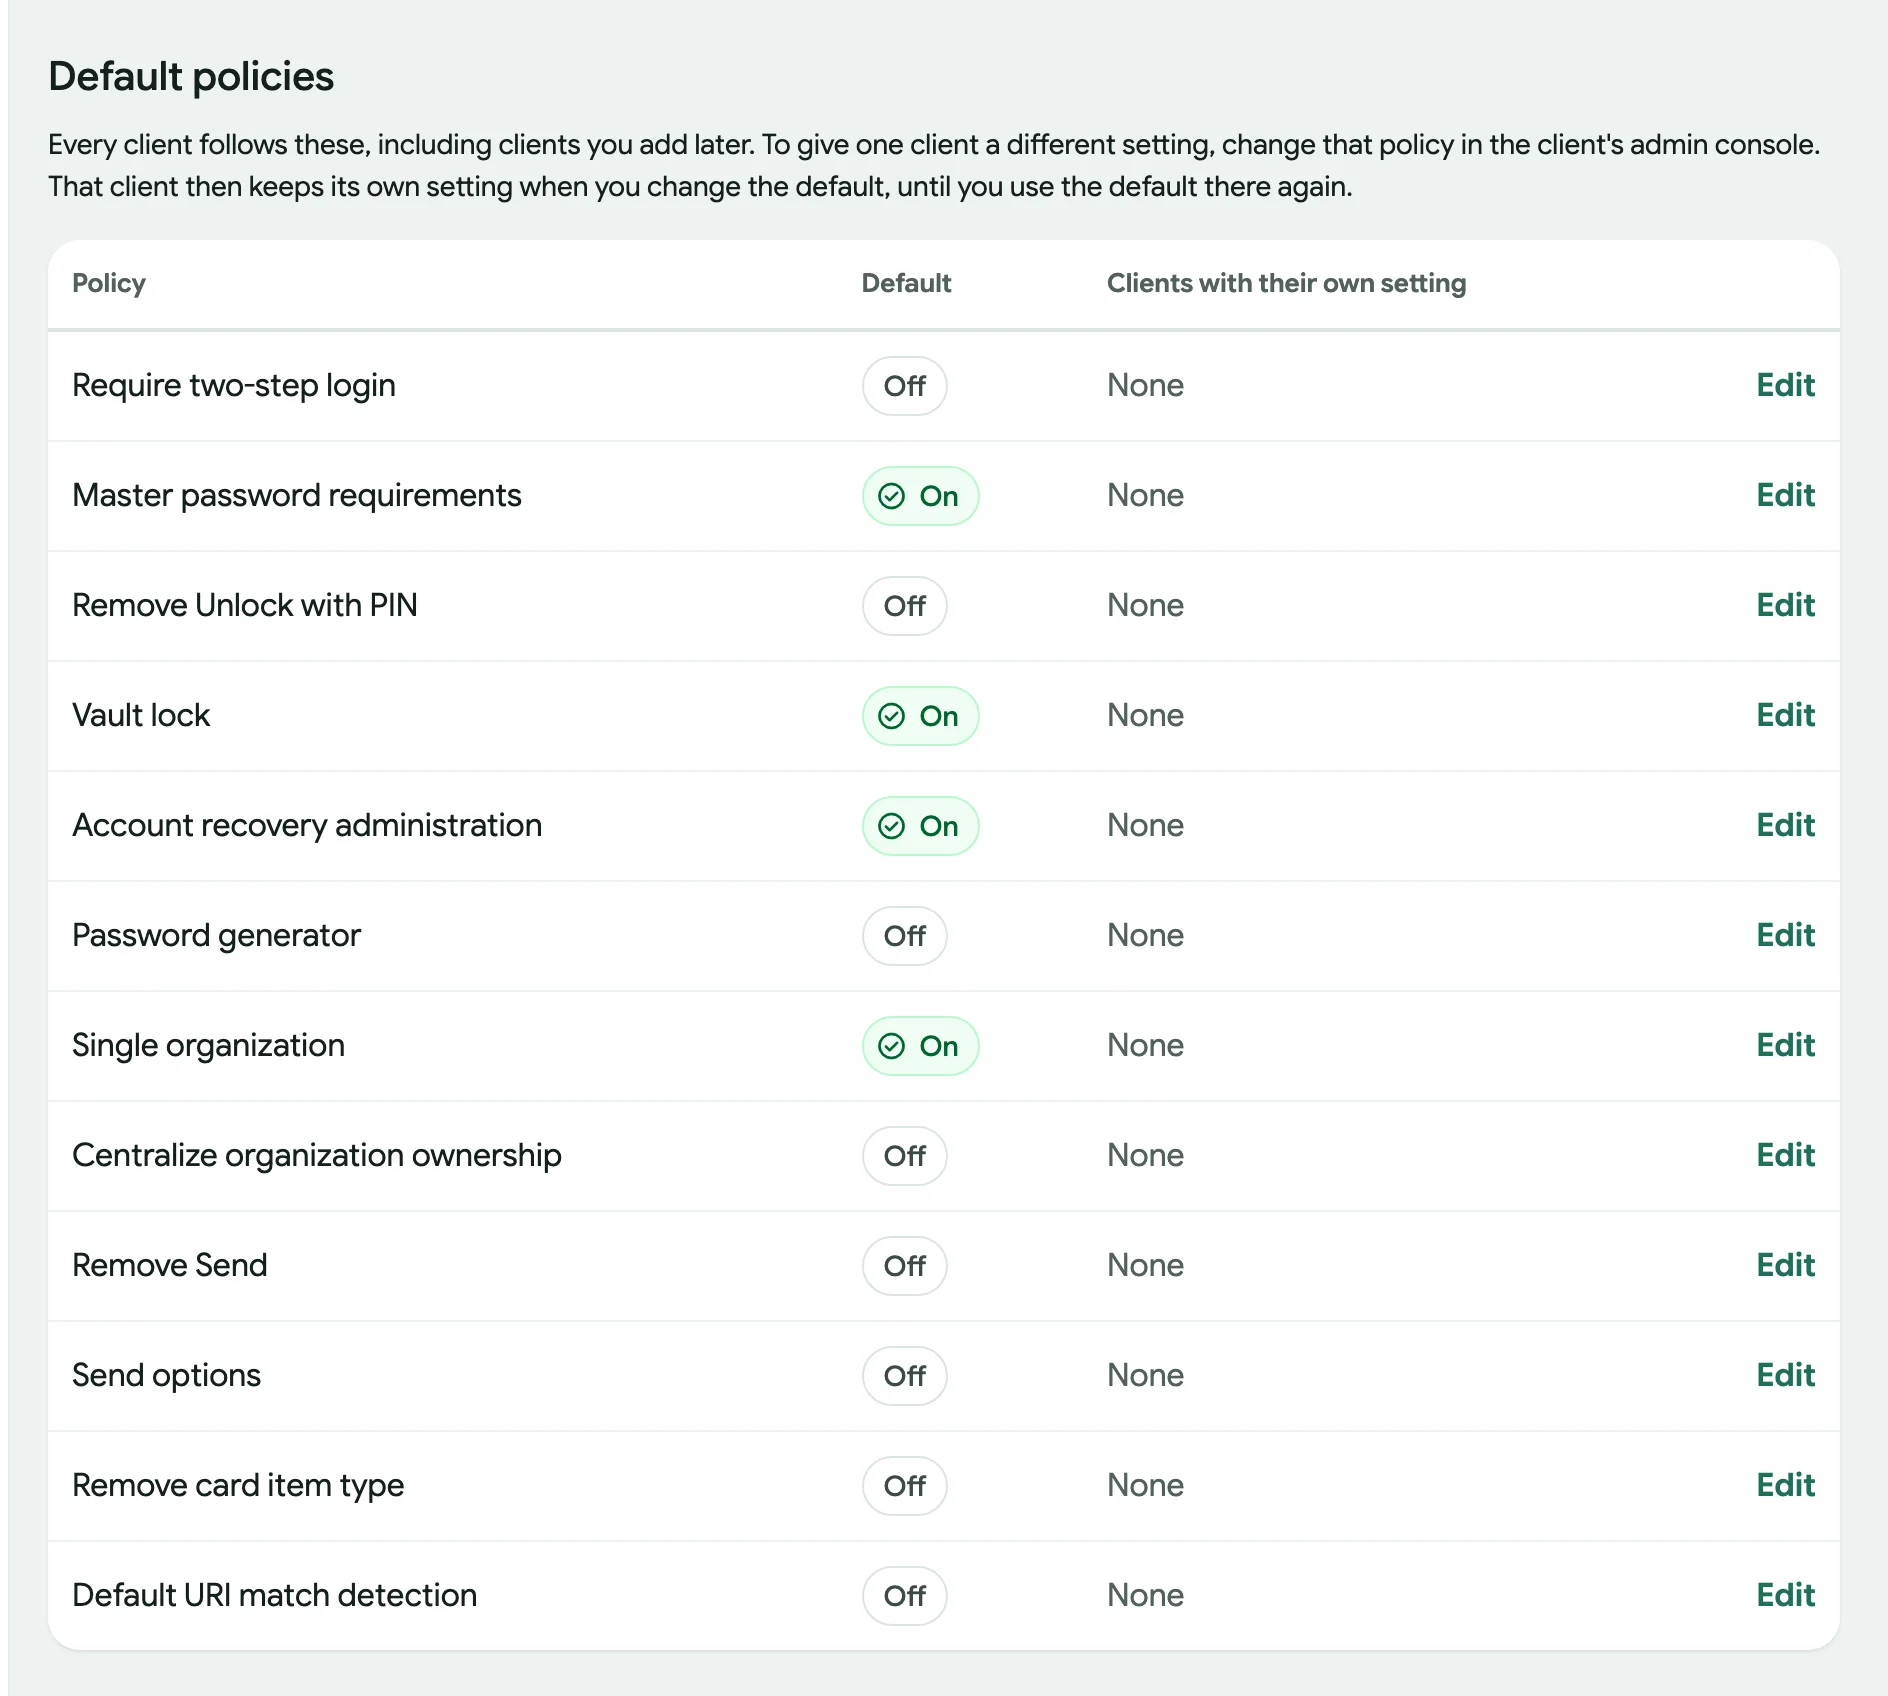
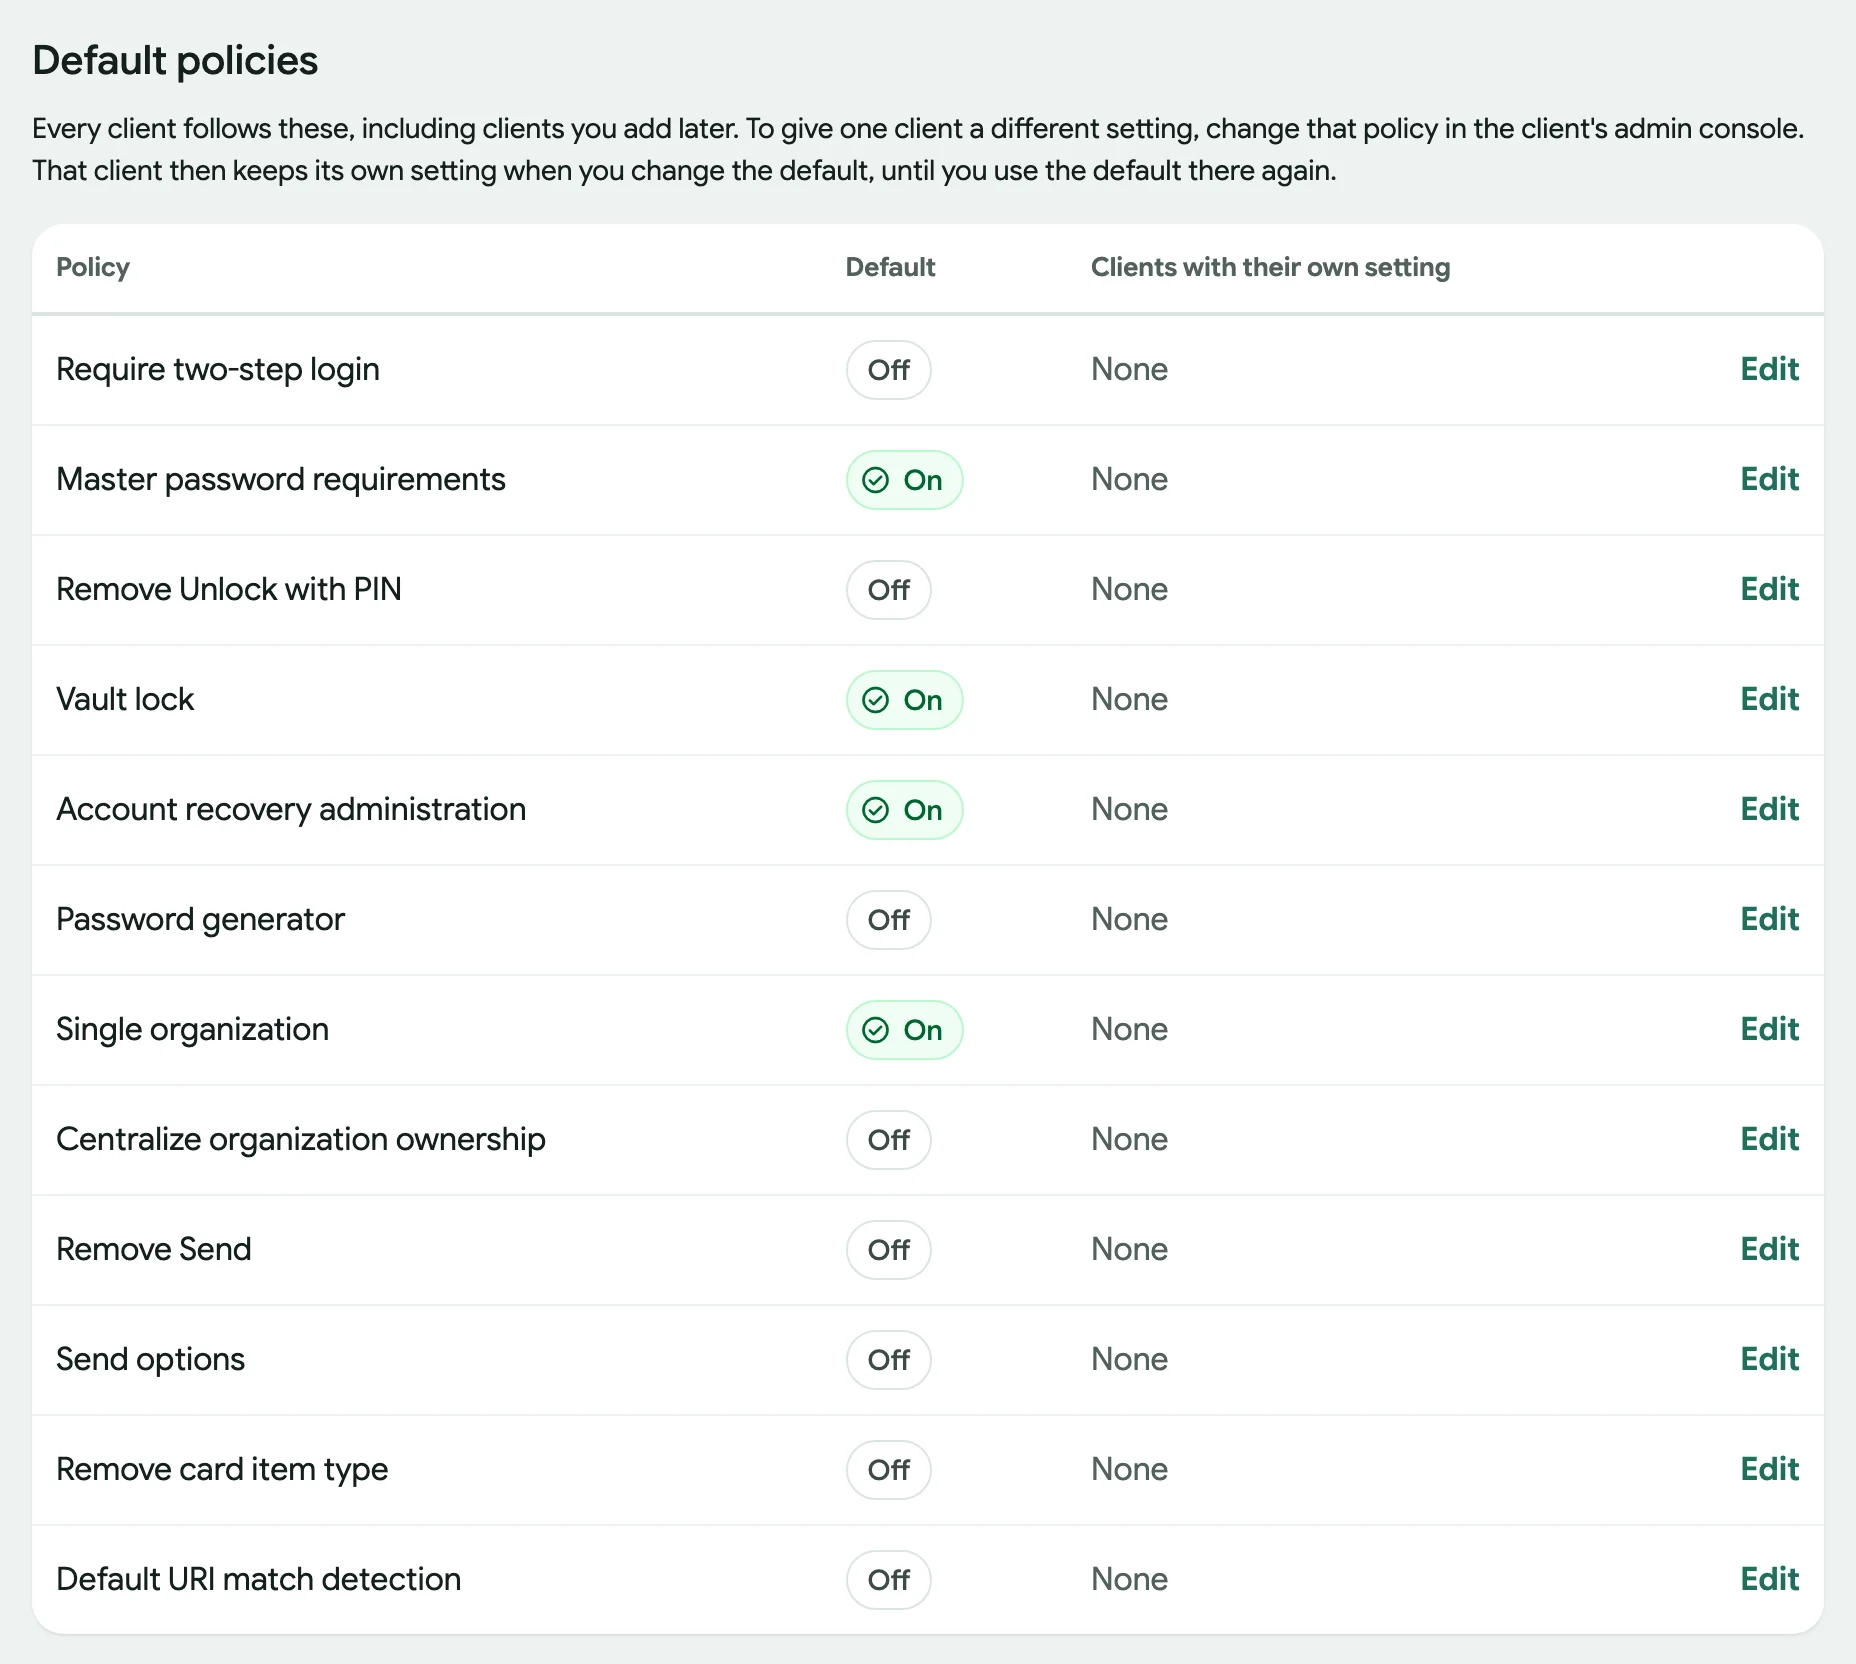
The website's panel screenshots keep a narrow margin of the page around them
A panel (the default policies, an install command) is shot with 16 pixels
of the page around it instead of 24, so the margin stays inside the page
and doesn't reach the menu's edge. The drafts are made again with it.

diff --git a/e2e/site-shots/site-shots.spec.ts b/e2e/site-shots/site-shots.spec.ts
@@ -83,7 +83,7 @@ async function shoot(target: Page | Locator, name: string) {
 }
 
 /** A part of a page, with a margin of the page around it, so it reads as a panel. */
-async function shootPanel(target: Locator, name: string, margin = 24) {
+async function shootPanel(target: Locator, name: string, margin = 16) {
   const page = target.page();
   await target.scrollIntoViewIfNeeded();
   await settle(page);
